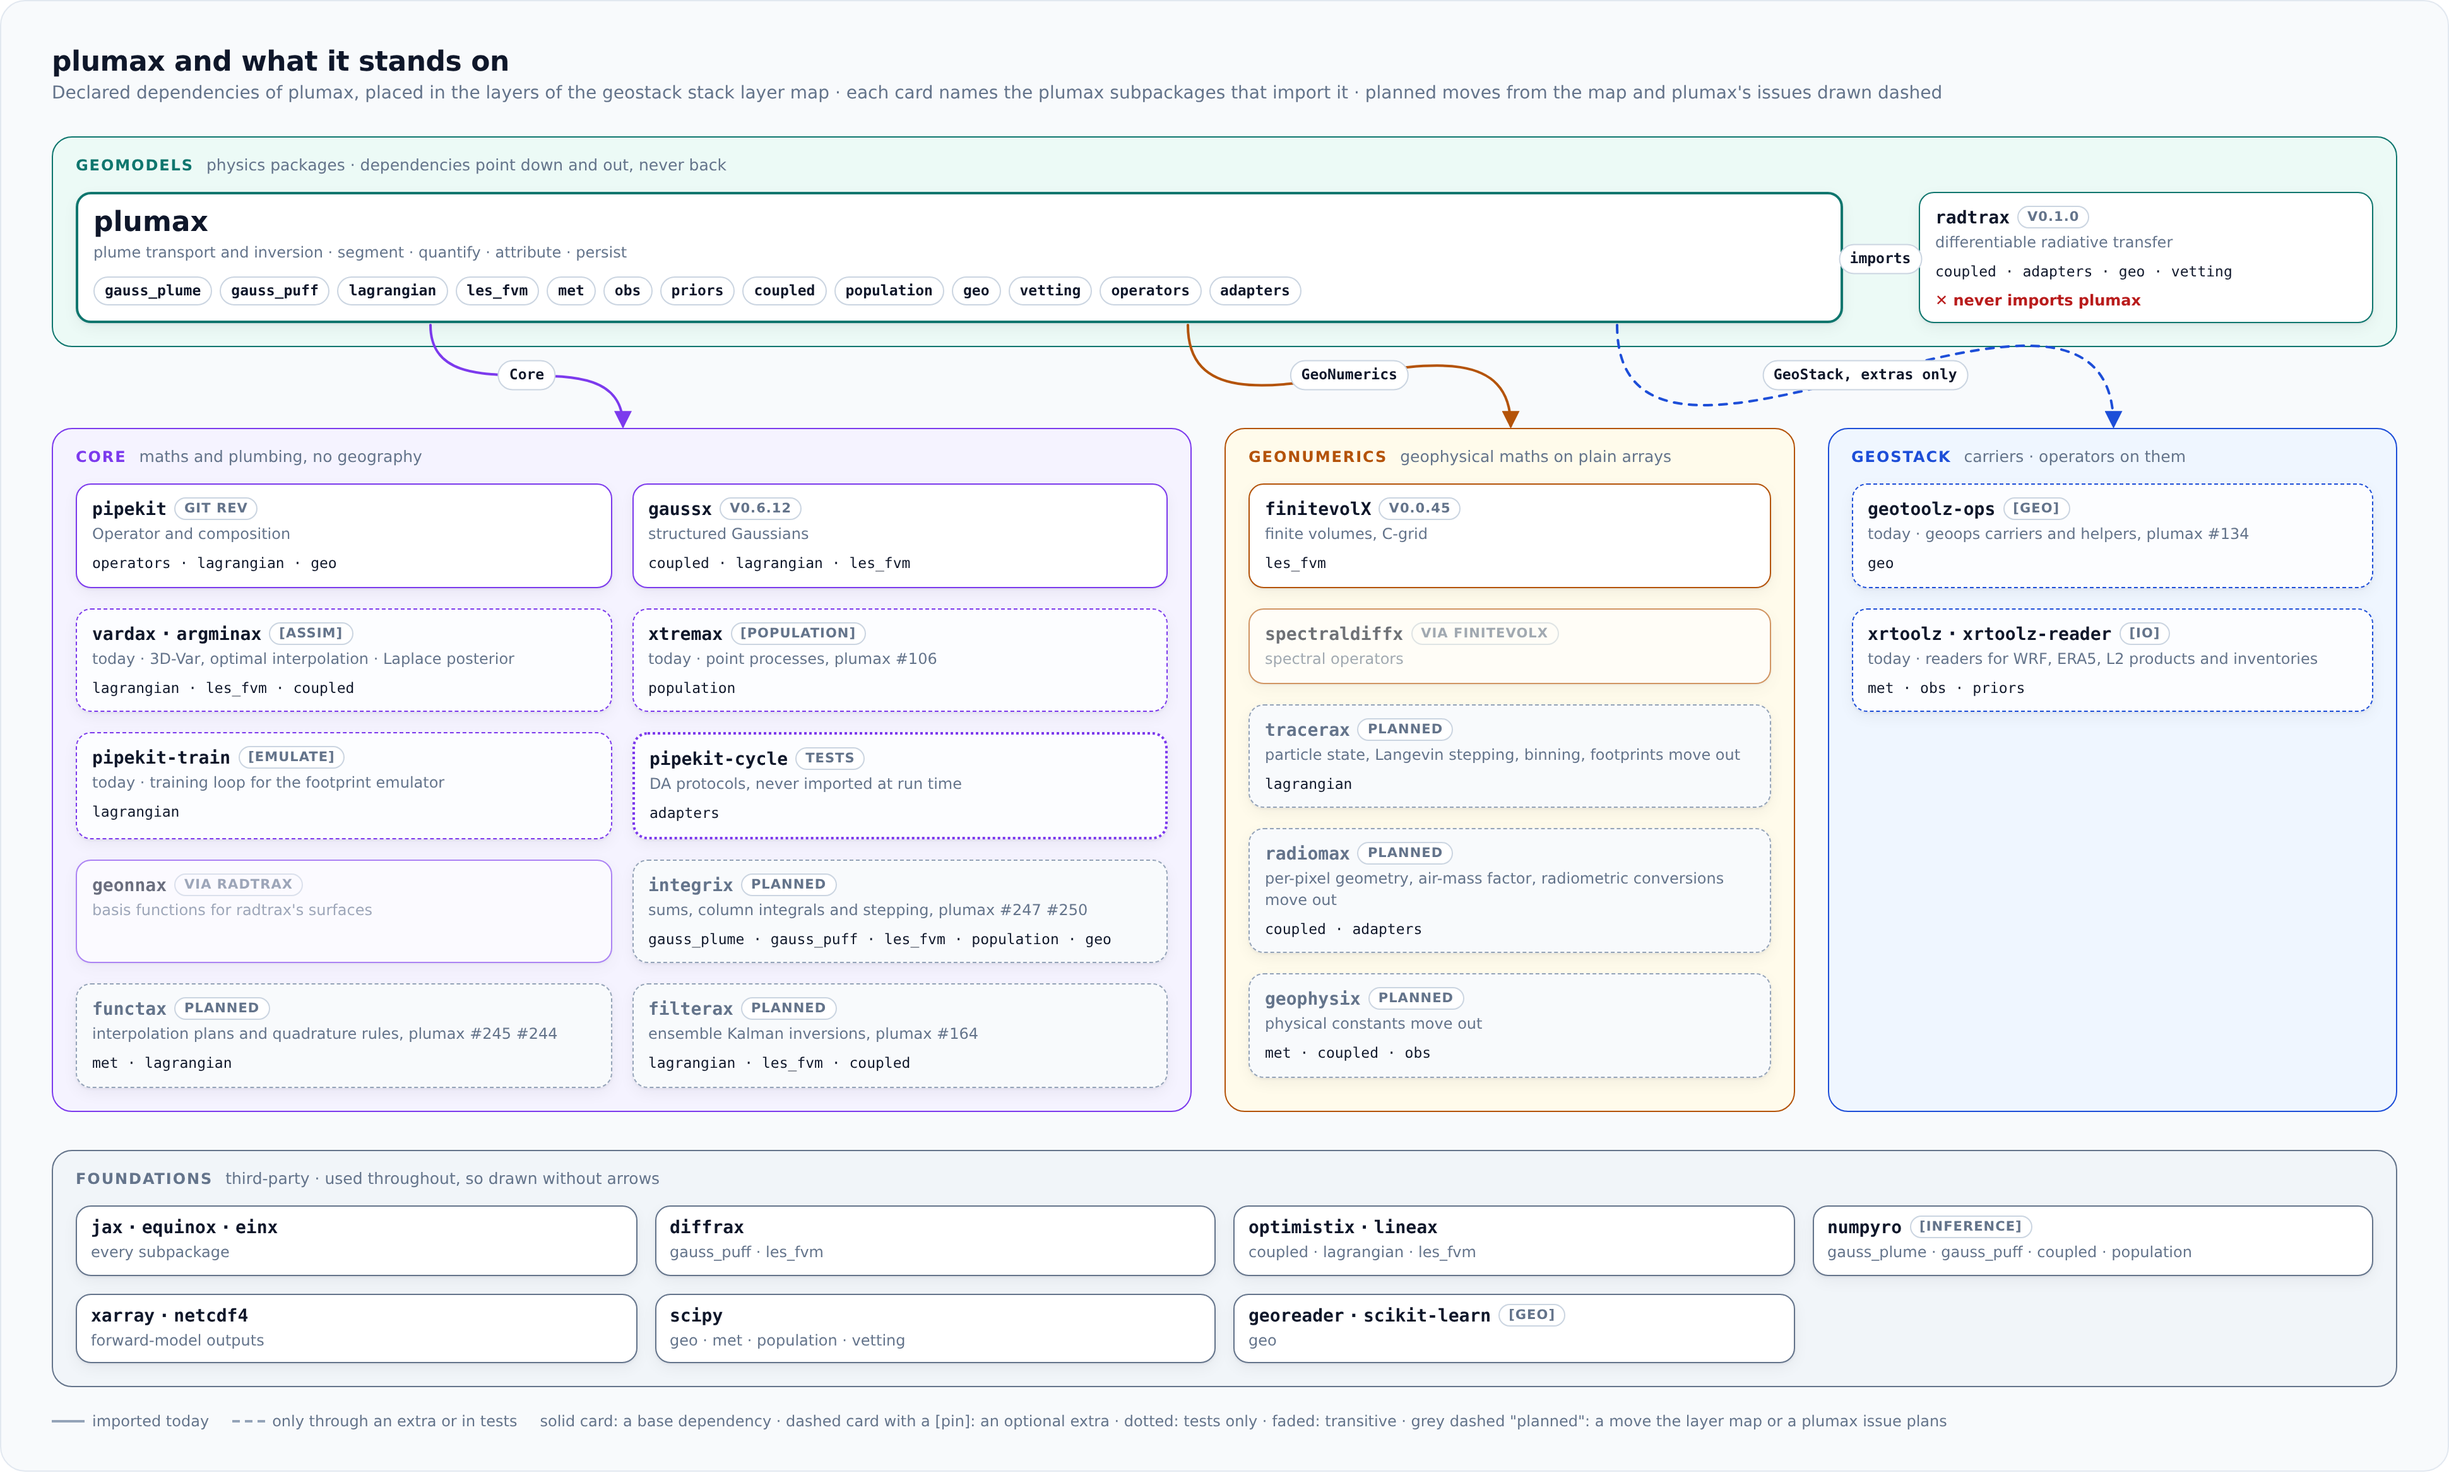
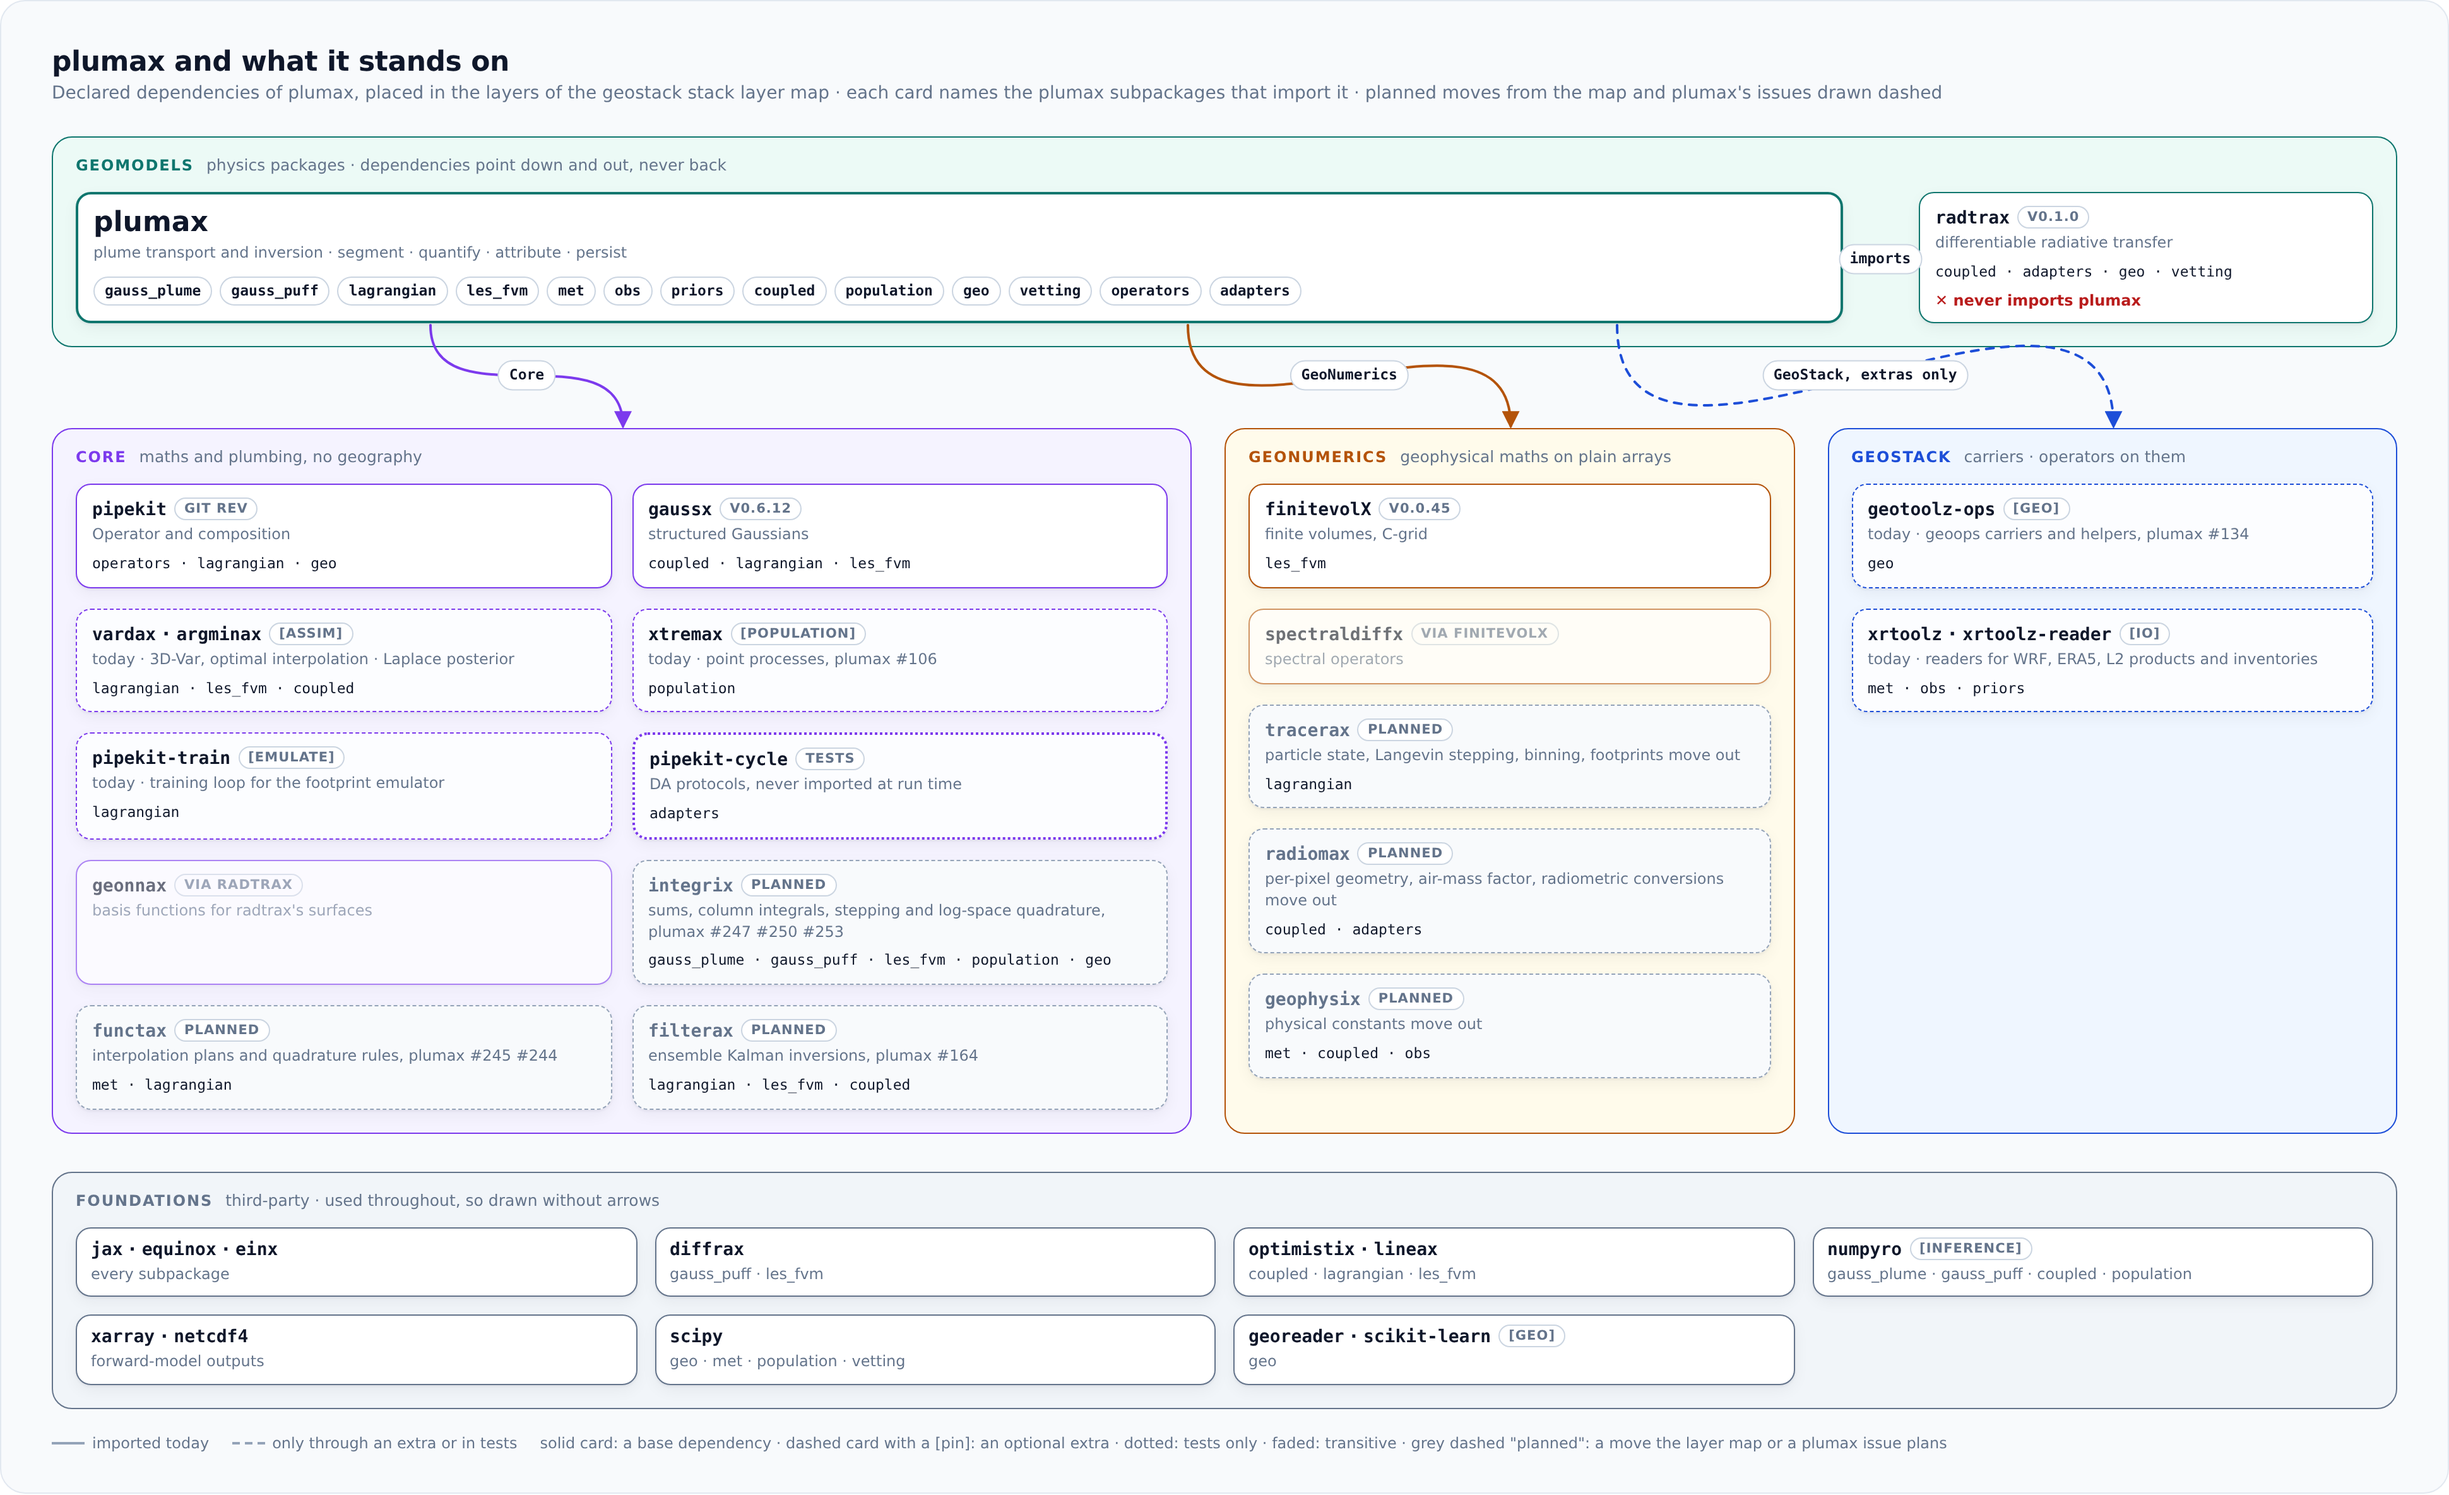
docs(diagrams): integrix's planned card includes the log-space quadrature decided in integrix#72

diff --git a/docs/assets/diagrams/plumax-deps.html b/docs/assets/diagrams/plumax-deps.html
@@ -140,7 +140,7 @@
         </div>
         <div class="node planned" id="integrix">
           <div class="name"><code>integrix</code><span class="pin">planned</span></div>
-          <div class="desc">sums, column integrals and stepping, plumax #247 #250</div>
+          <div class="desc">sums, column integrals, stepping and log-space quadrature, plumax #247 #250 #253</div>
           <div class="use">gauss_plume · gauss_puff · les_fvm · population · geo</div>
         </div>
         <div class="node planned" id="functax">

diff --git a/README.md b/README.md
@@ -70,7 +70,7 @@ The dependency only goes one way, as plumax imports radtrax (the `coupled` tier 
 
 plumax sits in GeoStack's GeoModels layer beside radtrax, and nothing below imports it back. It reaches down to finitevolX in GeoNumerics for the Eulerian grid, and to Core for the rest: gaussx for every posterior covariance, pipekit for the `Operator` interface and, behind extras, vardax and argminax for the source inversions and xtremax for the point processes. Every tier exposes the same `forward(params, met) → observations`, so we write the samplers and assimilation schemes once against it. NumPyro does the sampling, vardax (the `assim` extra) runs the Tier II optimal interpolation and the Tier III 3D-Var over plumax's source-receptor maps, and filterax (ensemble Kalman methods) is the planned home for EKI. The [stack layer map](https://github.com/jejjohnson/geostack/blob/main/docs/design/stack_layer_map.md) also plans to move some of plumax out, as the particle machinery goes to tracerax, the per-pixel geometry to radiomax and the physical constants to geophysix.
 
-<p align="center"><img src="docs/assets/diagrams/plumax-deps.png" alt="plumax and its dependencies in the layers of the geostack stack layer map: in GeoModels, plumax imports radtrax and radtrax never imports plumax; in Core, pipekit and gaussx are base dependencies, vardax and argminax come with the assim extra, xtremax with the population extra and pipekit-train with the emulate extra, pipekit-cycle is used in tests only, geonnax arrives through radtrax, and integrix, functax and filterax are planned; in GeoNumerics, finitevolX is a base dependency with spectraldiffx underneath, and tracerax, radiomax and geophysix are planned homes for code that moves out of plumax; in GeoStack, geotoolz-ops comes with the geo extra and xrtoolz with the io extra; jax, equinox, einx, diffrax, optimistix, lineax, numpyro, xarray, netcdf4, scipy, georeader and scikit-learn are the third-party foundations" width="100%"></p>
+<p align="center"><img src="docs/assets/diagrams/plumax-deps.png" alt="plumax and its dependencies in the layers of the geostack stack layer map: in GeoModels, plumax imports radtrax and radtrax never imports plumax; in Core, pipekit and gaussx are base dependencies, vardax and argminax come with the assim extra, xtremax with the population extra and pipekit-train with the emulate extra, pipekit-cycle is used in tests only, geonnax arrives through radtrax, and integrix (sums, stepping and log-space quadrature), functax and filterax are planned; in GeoNumerics, finitevolX is a base dependency with spectraldiffx underneath, and tracerax, radiomax and geophysix are planned homes for code that moves out of plumax; in GeoStack, geotoolz-ops comes with the geo extra and xrtoolz with the io extra; jax, equinox, einx, diffrax, optimistix, lineax, numpyro, xarray, netcdf4, scipy, georeader and scikit-learn are the third-party foundations" width="100%"></p>
 
 The full stack's graph, and the rules that keep it acyclic, live in GeoStack's
 [package boundaries](https://github.com/jejjohnson/geostack/blob/main/docs/geomodels/package_boundaries.md)

diff --git a/docs/index.md b/docs/index.md
@@ -47,7 +47,7 @@ plumax sits in GeoStack's GeoModels layer beside radtrax, and nothing below impo
 
 :::{figure} assets/diagrams/plumax-deps.png
 :label: fig-plumax-deps
-:alt: plumax and its dependencies in the layers of the geostack stack layer map: in GeoModels, plumax imports radtrax and radtrax never imports plumax; in Core, pipekit and gaussx are base dependencies, vardax and argminax come with the assim extra, xtremax with the population extra and pipekit-train with the emulate extra, pipekit-cycle is used in tests only, geonnax arrives through radtrax, and integrix, functax and filterax are planned; in GeoNumerics, finitevolX is a base dependency with spectraldiffx underneath, and tracerax, radiomax and geophysix are planned homes for code that moves out of plumax; in GeoStack, geotoolz-ops comes with the geo extra and xrtoolz with the io extra; jax, equinox, einx, diffrax, optimistix, lineax, numpyro, xarray, netcdf4, scipy, georeader and scikit-learn are the third-party foundations.
+:alt: plumax and its dependencies in the layers of the geostack stack layer map: in GeoModels, plumax imports radtrax and radtrax never imports plumax; in Core, pipekit and gaussx are base dependencies, vardax and argminax come with the assim extra, xtremax with the population extra and pipekit-train with the emulate extra, pipekit-cycle is used in tests only, geonnax arrives through radtrax, and integrix (sums, stepping and log-space quadrature), functax and filterax are planned; in GeoNumerics, finitevolX is a base dependency with spectraldiffx underneath, and tracerax, radiomax and geophysix are planned homes for code that moves out of plumax; in GeoStack, geotoolz-ops comes with the geo extra and xrtoolz with the io extra; jax, equinox, einx, diffrax, optimistix, lineax, numpyro, xarray, netcdf4, scipy, georeader and scikit-learn are the third-party foundations.
 
 plumax's declared dependencies in the layers of the geostack stack layer map. Each card names the plumax subpackages that import it, and planned moves are dashed.
 :::
